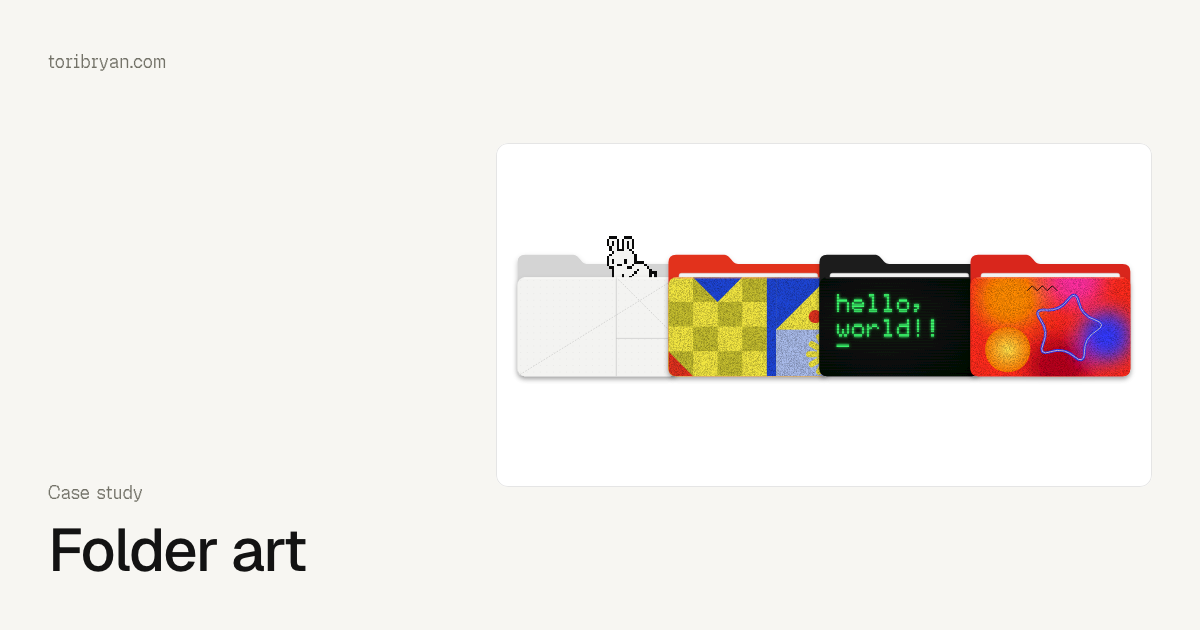
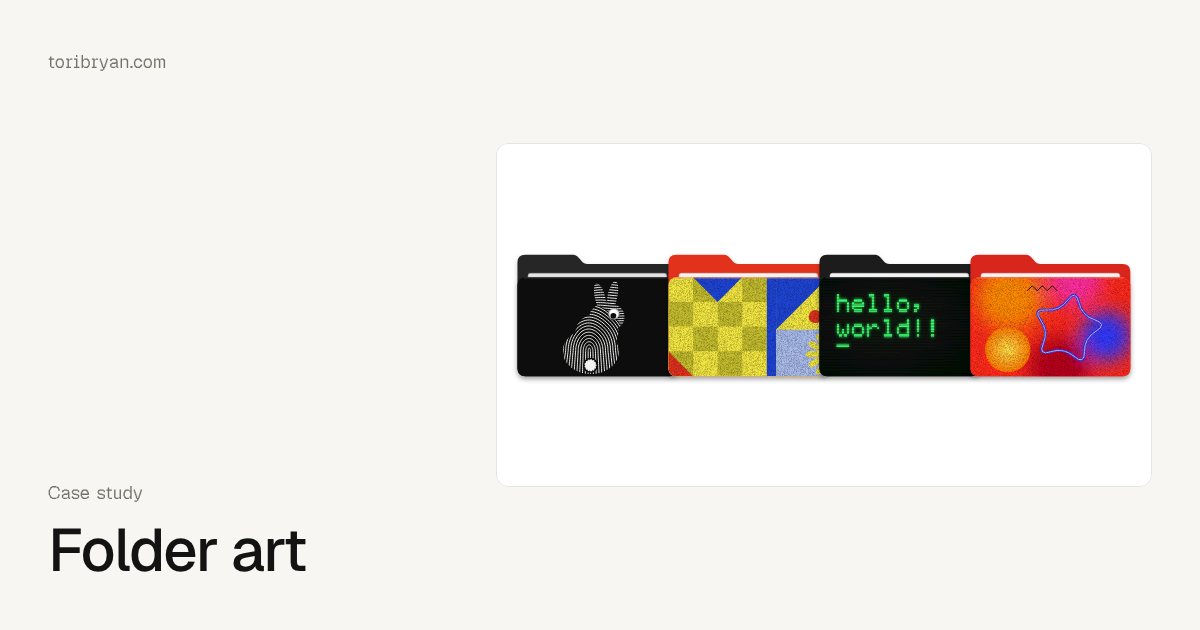
Put Print on the Folder art cover in place of Paper
Swaps the white Paper folder for the new Print thumbprint on the
project card, and recaptures the folder-art social preview.

Claude-Session: https://claude.ai/code/session_01JmHRtiVVokugDewYARnevg

Changed region(s): [[0.4317, 0.3619, 0.555, 0.6032]]

diff --git a/src/features/folder-art/folder-art-gallery.tsx b/src/features/folder-art/folder-art-gallery.tsx
@@ -84,7 +84,7 @@ export function FolderArtGallery() {
   )
 }
 
-const COVER = ["paper", "quilt", "hello", "heat"]
+const COVER = ["print", "quilt", "hello", "heat"]
 
 /**
  * Four folders from both sets on the project card. Hovering the card lifts
